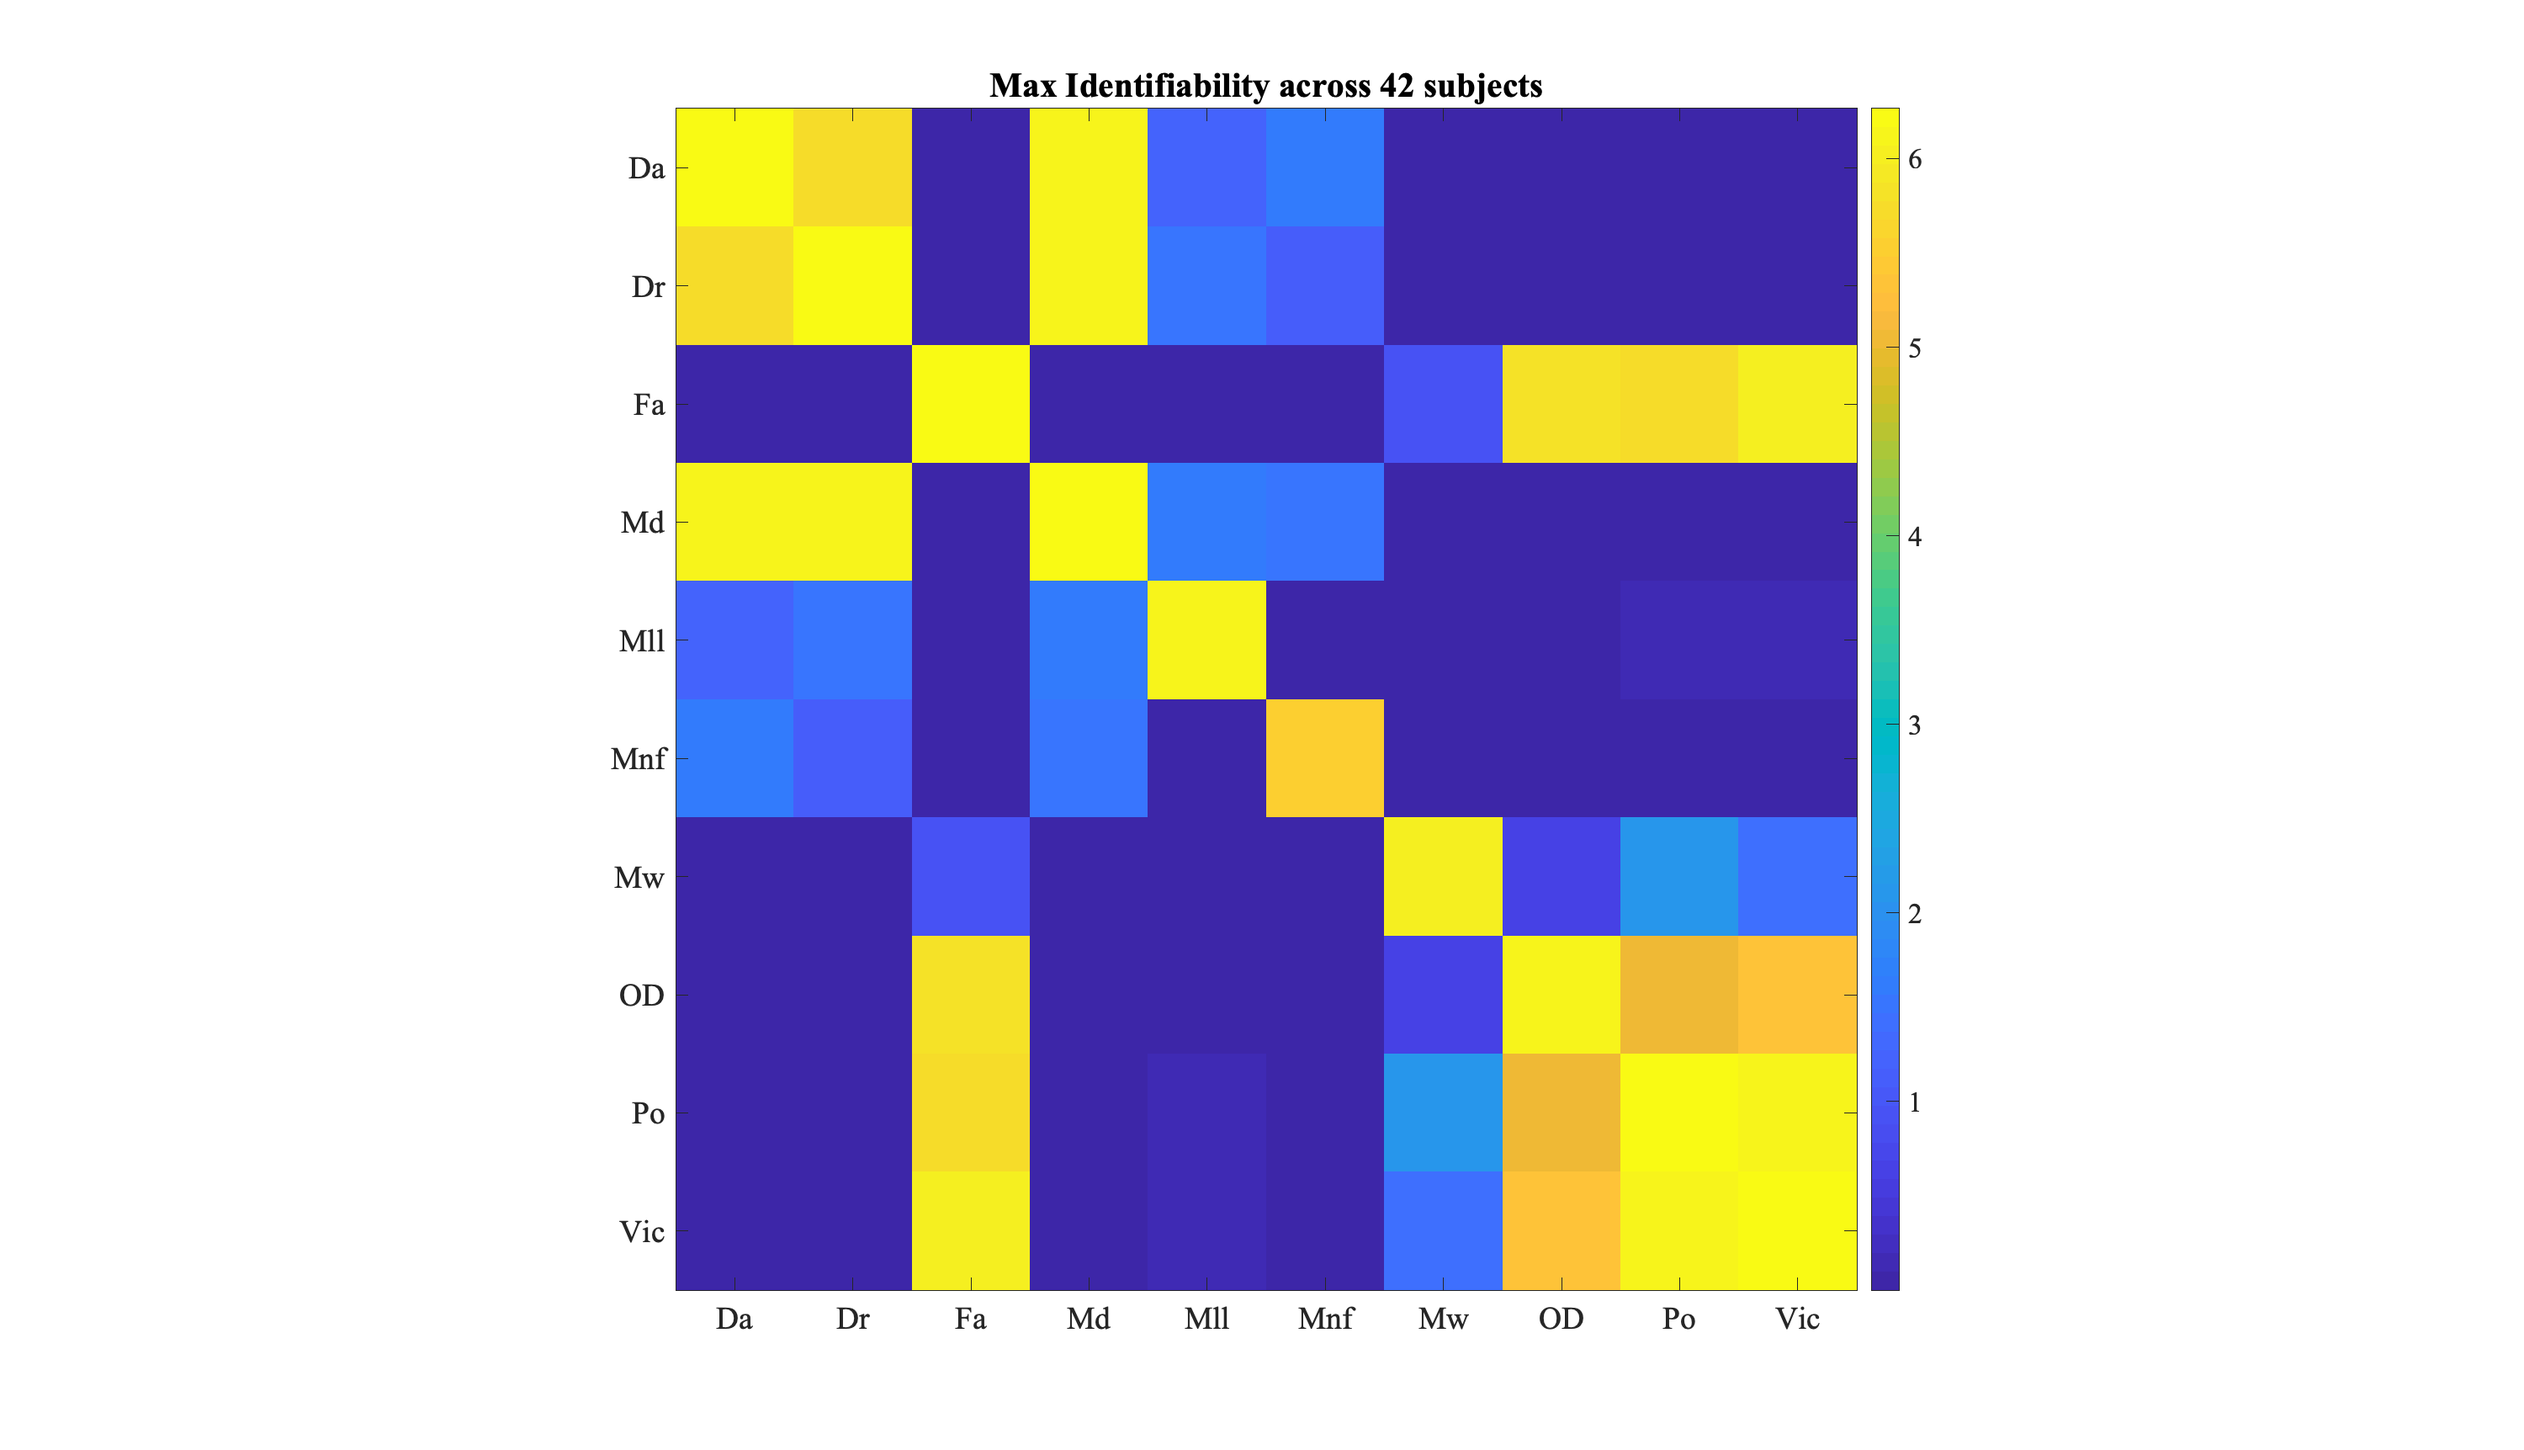
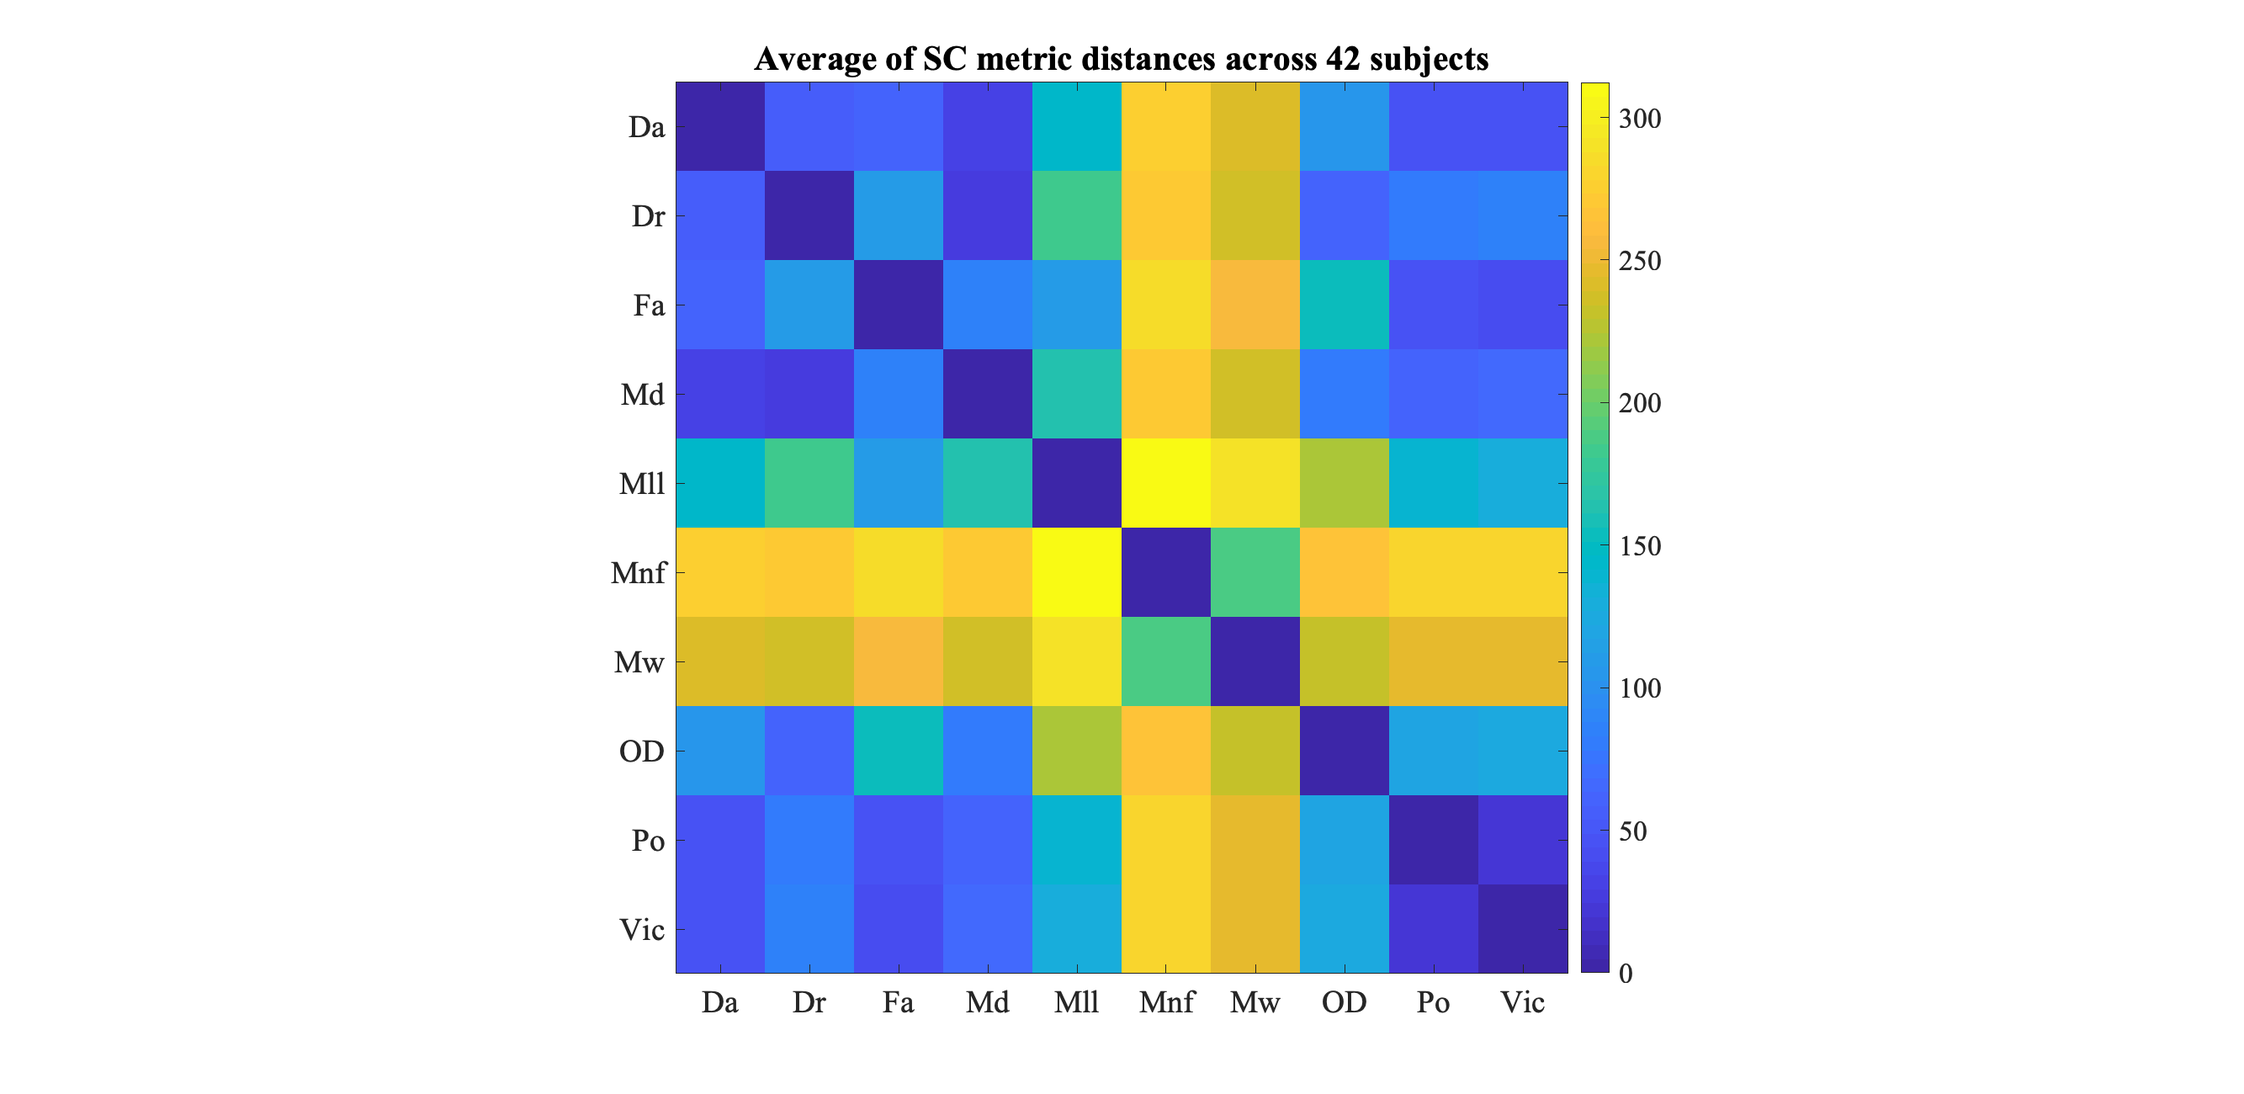
10x10 for mask

diff --git a/Scripts/sc_identifiability.m b/Scripts/sc_identifiability.m
@@ -49,10 +49,15 @@ metrics = {'Da', 'Dr', 'Fa', 'Md', 'Mll', 'Mnf', 'Mw', 'OD', 'Po', 'Vic'};
 ut_mask = triu(true(configs.numDiffMetrics),1);
 diag_mask = logical(eye(configs.numDiffMetrics));
 cols = 1:10:configs.numFCs;
+mnf_connectivity = connectivity_matrix(:,6:10:end);
+mask_mnf = sum(mnf_connectivity >0, 2) >= 35;
+connectivity_matrix = connectivity_matrix(mask_mnf,:);
+%%
 for subject = 1:configs.numSubjects
     range = cols(subject):cols(subject)+ 9;
-    subject_mat = zscore(connectivity_matrix(:,range));
-    dist_mat(:,:,subject) = pdist2(subject_mat',subject_mat', 'euclidean');
+    subject_mat = connectivity_matrix(:,range);
+%     dist_mat(:,:,subject) = pdist2(subject_mat',subject_mat', 'euclidean');
+    dist_mat(:,:,subject) = pdist2(subject_mat',subject_mat', 'spearman');
     subplot(6,7,subject)
     imagesc(dist_mat(:,:,subject))
     axis square
@@ -66,7 +71,7 @@ title('Average of SC metric distances across 42 subjects')
 set(gca,'xtick',[1:10],'xticklabel',metrics)
 set(gca,'ytick',[1:10],'yticklabel',metrics)
 colorbar
-saveas(fig, '../Images/dist_mat_avg.png')
+saveas(fig, '../Images/spearman_avg.png')
 
 %% Pairwise identifiability for closely related metrics
 % pairs = [1, 4; 2, 4; 3, 10; 9, 10];
